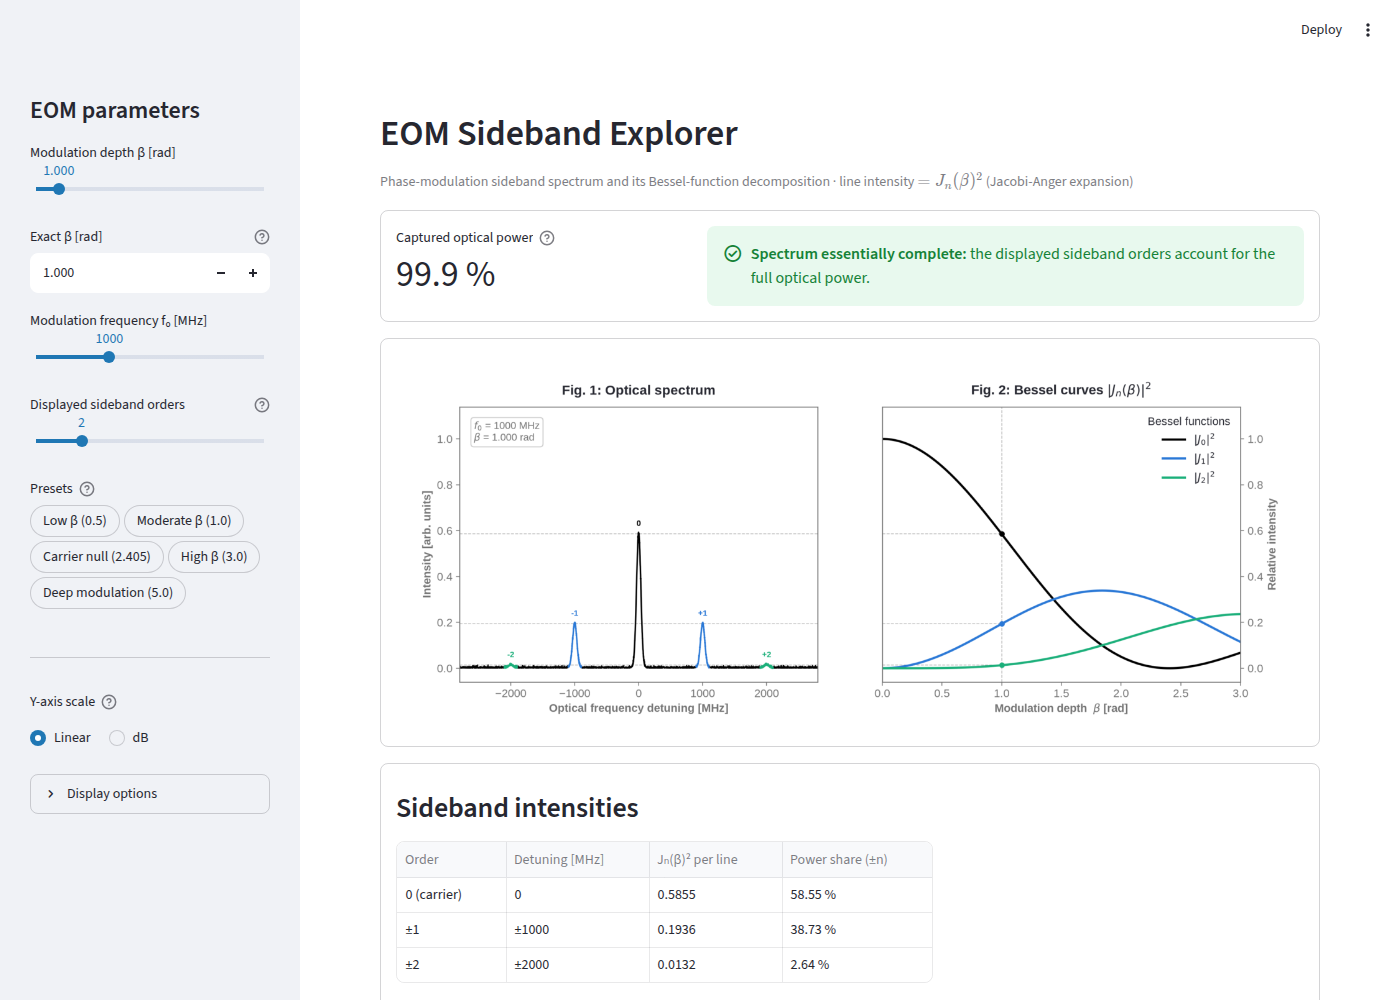
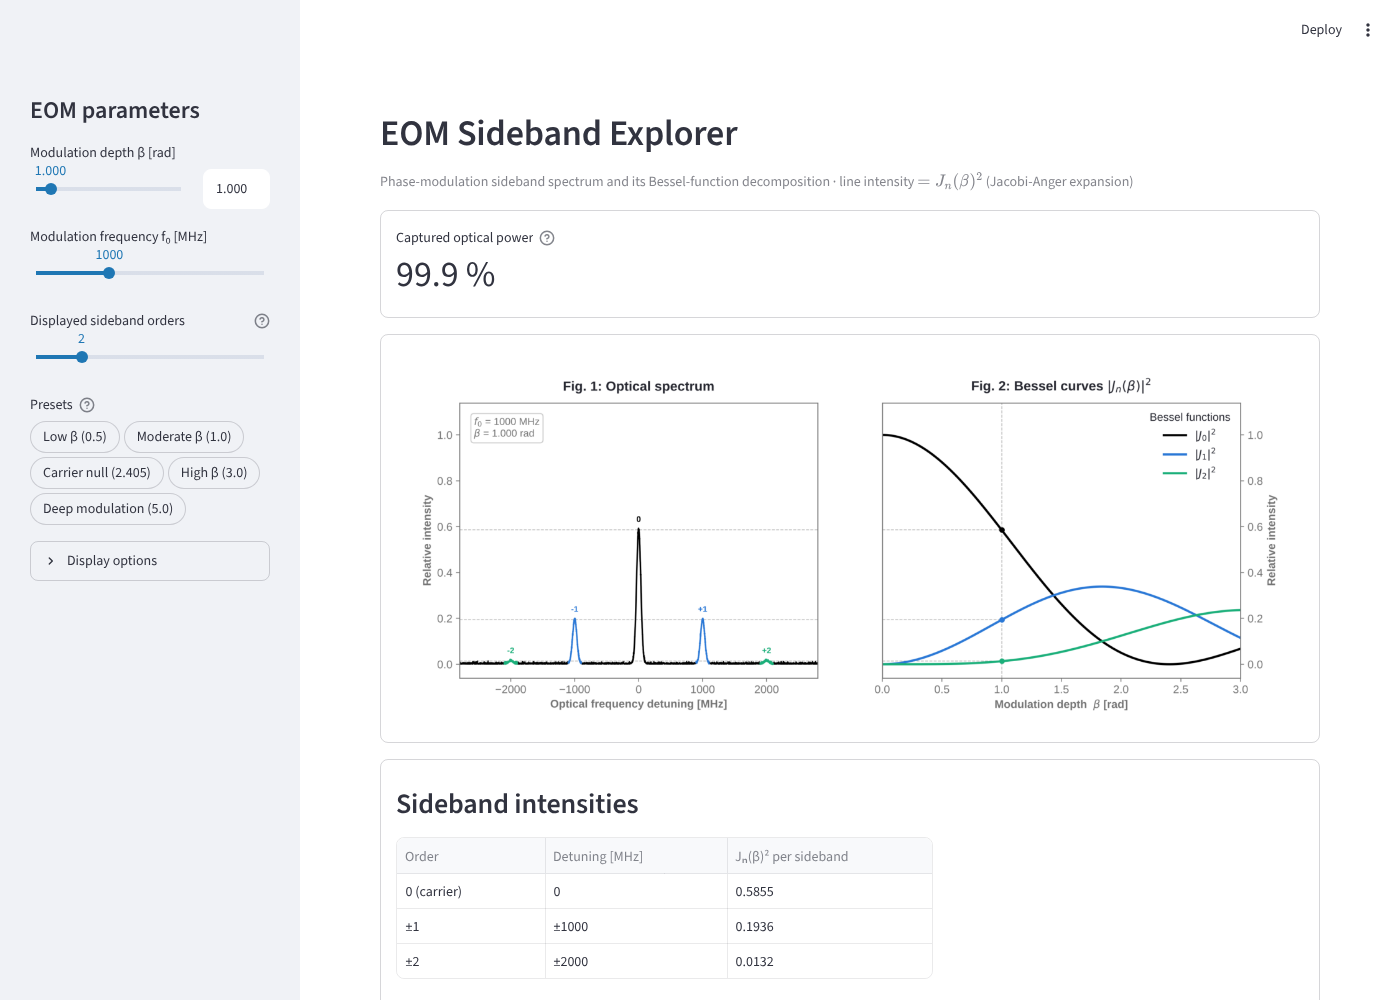
Build the figure without shared matplotlib state, tidy docs
Streamlit serves all visitors from one process, and the figure was built
with pyplot and coloured through the global rcParams, so a light-mode and a
dark-mode visitor rendering at the same moment could swap ink colours. The
figure is now a plain matplotlib Figure with every theme colour passed to the
artists directly; only theme-independent fonts stay in rcParams.

Also: label Fig. 1's y-axis "Relative intensity" (the values are fractions of
the input power, not arbitrary units), refresh the stale README screenshot,
and add a short note on deploying a fork.

Claude-Session: https://claude.ai/code/session_01XGm6FrGu4Ur17hN8RcLhi8

diff --git a/app.py b/app.py
@@ -17,9 +17,10 @@ Run locally with ``streamlit run app.py``.
 
 import io
 
+import matplotlib
 import numpy as np
-import matplotlib.pyplot as plt
 import streamlit as st
+from matplotlib.figure import Figure
 
 from physics import (color_for_n, sideband_intensities, intensity_vs_beta,
                      captured_power, to_decibels, DB_FLOOR)
@@ -105,14 +106,29 @@ def _apply_preset():
 # previous theme until the next interaction (streamlit/streamlit#11920). With
 # its own background the figure then still reads as a light or dark panel,
 # instead of light ink on a light page or dark ink on a dark one.
+#
+# Streamlit serves every visitor from threads of one process, and pyplot and
+# matplotlib's rcParams are global to that process. So the figure is built
+# without pyplot, and every theme colour is passed to the artists directly:
+# concurrent visitors (one in light mode, one in dark) can then never pick up
+# each other's colours. Only settings that are the same for everyone live in
+# rcParams.
 # ---------------------------------------------------------------------------
-def theme_ink(is_dark):
+matplotlib.rcParams.update({
+    "axes.linewidth": 1.0,
+    "font.size": 11,
+    "font.family": "sans-serif",
+    "font.sans-serif": ["Liberation Sans", "Arial", "DejaVu Sans"],
+})
+
+
+def theme_ink(mode):
     """Return the theme-dependent ink colours for the matplotlib figure.
 
     Parameters
     ----------
-    is_dark : bool
-        Whether the active Streamlit theme is dark.
+    mode : {"light", "dark"}
+        The active Streamlit theme.
 
     Returns
     -------
@@ -122,6 +138,7 @@ def theme_ink(is_dark):
         (titles, matches the Streamlit ``textColor``), ``hline`` (dashed helper
         lines), and ``box_fc`` / ``box_ec`` (annotation-box face and edge).
     """
+    is_dark = mode == "dark"
     return {
         "bg":     '#0e1117' if is_dark else '#ffffff',
         "grey":   '0.65' if is_dark else '0.45',
@@ -132,16 +149,13 @@ def theme_ink(is_dark):
     }
 
 
-def apply_plot_style(ink):
-    """Apply shared matplotlib rcParams so both axes match the Streamlit theme."""
-    plt.rcParams.update({
-        "axes.edgecolor": ink["grey"], "axes.labelcolor": ink["grey"],
-        "xtick.color": ink["grey"], "ytick.color": ink["grey"],
-        "text.color": ink["text"],
-        "axes.linewidth": 1.0, "font.size": 11,
-        "font.family": "sans-serif",
-        "font.sans-serif": ["Liberation Sans", "Arial", "DejaVu Sans"],
-    })
+def _color_axes(ax, ink):
+    """Give the frame, ticks and axis labels of ``ax`` the theme's grey ink."""
+    for spine in ax.spines.values():
+        spine.set_edgecolor(ink["grey"])
+    ax.tick_params(colors=ink["grey"])
+    ax.xaxis.label.set_color(ink["grey"])
+    ax.yaxis.label.set_color(ink["grey"])
 
 
 # ---------------------------------------------------------------------------
@@ -233,7 +247,8 @@ def draw_spectrum(ax, *, beta, f0, N, Jn2, width_frac, noise, color_peaks, db_sc
     ax.set_xlim(-span, span)
     ax.set_ylim(*_ylim(db_scale))
     ax.set_xlabel('Optical frequency detuning [MHz]', fontweight='bold')
-    ax.set_ylabel('Intensity [dB]' if db_scale else 'Intensity [arb. units]', fontweight='bold')
+    ax.set_ylabel('Relative intensity [dB]' if db_scale else 'Relative intensity',
+                  fontweight='bold')
     ax.set_title('Fig. 1: Optical spectrum', fontweight='bold', color=ink["text"], pad=12)
     ax.text(0.04, 0.95,
             f"$f_0$ = {f0:.0f} MHz\n"
@@ -289,23 +304,33 @@ def draw_bessel_curves(ax, *, beta, N, Jn2, fixed_xaxis, db_scale, mode, ink):
     ax.yaxis.tick_right()
     ax.set_ylabel('Relative intensity [dB]' if db_scale else 'Relative intensity',
                   fontweight='bold')
-    ax.legend(title='Bessel functions', loc='upper right', frameon=False)
+    legend = ax.legend(title='Bessel functions', loc='upper right', frameon=False,
+                       labelcolor=ink["text"])
+    legend.get_title().set_color(ink["text"])
 
 
 def build_figure(*, beta, f0, N, Jn2, width_frac, noise, color_peaks,
-                 fixed_xaxis, db_scale, mode, ink):
-    """Build and return the two-panel matplotlib figure (spectrum + Bessel curves)."""
-    fig, (ax1, ax2) = plt.subplots(1, 2, figsize=(12.5, 5.2), dpi=150)
+                 fixed_xaxis, db_scale, mode):
+    """Build and return the two-panel matplotlib figure (spectrum + Bessel curves).
+
+    ``mode`` (``"light"`` or ``"dark"``) selects the theme colours; the other
+    arguments are passed on to :func:`draw_spectrum` and
+    :func:`draw_bessel_curves`.
+    """
+    ink = theme_ink(mode)
+    fig = Figure(figsize=(12.5, 5.2))
+    ax1, ax2 = fig.subplots(1, 2)
     fig.subplots_adjust(wspace=0.18, top=0.86, bottom=0.13, left=0.07, right=0.93)
     fig.patch.set_facecolor(ink["bg"])
-    for ax in (ax1, ax2):
-        ax.set_facecolor('none')
 
     draw_spectrum(ax1, beta=beta, f0=f0, N=N, Jn2=Jn2, width_frac=width_frac,
                   noise=noise, color_peaks=color_peaks, db_scale=db_scale,
                   mode=mode, ink=ink)
     draw_bessel_curves(ax2, beta=beta, N=N, Jn2=Jn2, fixed_xaxis=fixed_xaxis,
                        db_scale=db_scale, mode=mode, ink=ink)
+    for ax in (ax1, ax2):
+        ax.set_facecolor('none')
+        _color_axes(ax, ink)
     return fig
 
 
@@ -313,10 +338,9 @@ def figure_png(fig):
     """Render ``fig`` to PNG bytes, uncropped, on its own background.
 
     The canvas is saved exactly as laid out by ``subplots_adjust`` instead of
-    being cropped to its content, at the 200 dpi ``st.pyplot`` used, with the
-    figure's own background colour (see :func:`theme_ink`). Saving it here,
-    rather than passing savefig options to ``st.pyplot`` (now deprecated),
-    keeps that control in our hands.
+    being cropped to its content, at 200 dpi, with the figure's own background
+    colour (see :func:`theme_ink`). Saving it here, rather than passing savefig
+    options to ``st.pyplot`` (now deprecated), keeps that control in our hands.
     """
     buf = io.BytesIO()
     fig.savefig(buf, format="png", dpi=200)
@@ -533,7 +557,6 @@ def main():
 
     # Resolve the active Streamlit theme so the matplotlib figure matches it.
     mode = "dark" if st.context.theme.type == "dark" else "light"
-    ink = theme_ink(mode == "dark")
 
     init_session_state()
     beta, f0, N, width_frac, noise, color_peaks, fixed_xaxis, db_scale = render_sidebar()
@@ -541,10 +564,9 @@ def main():
     # |J_n(beta)|^2 for n = 0..N, shared by both figures and the table.
     Jn2 = sideband_intensities(beta, N)
 
-    apply_plot_style(ink)
     fig = build_figure(beta=beta, f0=f0, N=N, Jn2=Jn2, width_frac=width_frac,
                        noise=noise, color_peaks=color_peaks,
-                       fixed_xaxis=fixed_xaxis, db_scale=db_scale, mode=mode, ink=ink)
+                       fixed_xaxis=fixed_xaxis, db_scale=db_scale, mode=mode)
 
     st.header("EOM Sideband Explorer")
     st.caption("Phase-modulation sideband spectrum and its Bessel-function "
@@ -554,7 +576,6 @@ def main():
 
     with st.container(border=True):
         st.image(figure_png(fig), width="stretch")
-    plt.close(fig)      # release the figure so reruns do not accumulate in memory
 
     render_intensity_table(Jn2, f0, N)
     render_physics_details()

diff --git a/test_app.py b/test_app.py
@@ -9,23 +9,21 @@ it is exercised on both settings.
 The spectral-truncation message is checked here too, since its advice must
 never point at a setting the sidebar cannot reach.
 
-Rendering uses the non-interactive Agg backend, so the suite still needs no
-display or browser.
+The figures are built without pyplot and rendered off-screen, so the suite
+needs no display or browser.
 """
 
-import matplotlib
-matplotlib.use('Agg')
+import io
 
-import matplotlib.pyplot as plt          # noqa: E402
-import numpy as np                       # noqa: E402
-import pytest                            # noqa: E402
+import numpy as np
+import pytest
+from matplotlib.colors import to_rgba
+from matplotlib.text import Text
+from PIL import Image
 
-from app import (NMAX, PRESETS, YLIM, YLIM_DB, apply_plot_style,  # noqa: E402
-                 build_figure, figure_png, theme_ink, truncation_message)
-from matplotlib.colors import to_rgba                 # noqa: E402
-from PIL import Image                                 # noqa: E402
-import io                                             # noqa: E402
-from physics import sideband_intensities  # noqa: E402
+from app import (NMAX, PRESETS, YLIM, YLIM_DB, build_figure, figure_png,
+                 theme_ink, truncation_message)
+from physics import sideband_intensities
 
 # Every preset operating point, on both y-scales.
 CASES = [(beta, N, db) for beta, N in PRESETS.values() for db in (False, True)]
@@ -33,12 +31,10 @@ CASES = [(beta, N, db) for beta, N in PRESETS.values() for db in (False, True)]
 
 def _figure(beta, N, db_scale, mode='light'):
     """Build the two-panel figure for one operating point, y-scale and theme."""
-    ink = theme_ink(mode == 'dark')
-    apply_plot_style(ink)
     return build_figure(beta=beta, f0=1000.0, N=N,
                         Jn2=sideband_intensities(beta, N), width_frac=0.012,
                         noise=0.004, color_peaks=True, fixed_xaxis=False,
-                        db_scale=db_scale, mode=mode, ink=ink)
+                        db_scale=db_scale, mode=mode)
 
 
 def _luminance(color):
@@ -65,7 +61,6 @@ def test_both_panels_share_one_y_range(beta, N, db_scale):
     ax1, ax2 = fig.axes
     assert ax1.get_ylim() == ax2.get_ylim()
     assert ax1.get_ylim() == (YLIM_DB if db_scale else YLIM)
-    plt.close(fig)
 
 
 @pytest.mark.parametrize("beta,N,db_scale", CASES)
@@ -77,7 +72,6 @@ def test_guide_lines_land_on_the_bessel_markers(beta, N, db_scale):
     assert len(heights) == N + 1        # one per displayed order, carrier included
     assert len(markers) == N + 1
     assert heights == pytest.approx(markers)
-    plt.close(fig)
 
 
 @pytest.mark.parametrize("beta,N,db_scale", CASES)
@@ -87,7 +81,6 @@ def test_nothing_drawn_is_infinite(beta, N, db_scale):
     for ax in fig.axes:
         for line in ax.get_lines():
             assert np.all(np.isfinite(np.atleast_1d(line.get_ydata())))
-    plt.close(fig)
 
 
 @pytest.mark.parametrize("N", range(1, NMAX + 1))
@@ -112,10 +105,28 @@ def test_figure_carries_its_own_opaque_background(mode):
     """
     fig = _figure(1.0, 2, False, mode)
     png = Image.open(io.BytesIO(figure_png(fig))).convert("RGBA")
-    plt.close(fig)
     assert png.getextrema()[3] == (255, 255), "the figure has transparent pixels"
 
-    ink = theme_ink(mode == 'dark')
+    ink = theme_ink(mode)
     assert png.getpixel((5, 5))[:3] == tuple(round(255 * c) for c in to_rgba(ink["bg"])[:3])
     for role in ("text", "grey"):
         assert abs(_luminance(ink[role]) - _luminance(ink["bg"])) > 0.35, role
+
+
+def test_dark_figure_sets_every_colour_itself():
+    """No text or frame on a dark figure falls back to matplotlib's black ink.
+
+    Streamlit serves concurrent visitors from one process, so the figure must
+    not take its theme colours from the global rcParams: every artist gets its
+    colour passed in directly, which this checks on the dark theme.
+    """
+    fig = _figure(1.0, 2, False, 'dark')
+    figure_png(fig)                     # draw, so every tick label exists
+    bg = _luminance(theme_ink('dark')["bg"])
+    texts = [t for t in fig.findobj(Text) if t.get_text()]
+    spines = [s for ax in fig.axes for s in ax.spines.values()]
+    assert texts
+    for t in texts:
+        assert _luminance(t.get_color()) - bg > 0.35, t.get_text()
+    for spine in spines:
+        assert _luminance(spine.get_edgecolor()) - bg > 0.35

diff --git a/README.md b/README.md
@@ -57,8 +57,8 @@ browser.
 
 ## Project structure
 
-The code is split into three small files so the physics can be understood,
-reused, and tested independently of the user interface:
+The physics and the user interface live in separate modules, so the physics
+can be understood, reused, and tested independently of the user interface:
 
 | File                    | Responsibility                                                        |
 | ----------------------- | --------------------------------------------------------------------- |
@@ -126,9 +126,14 @@ including the carrier-null *Vπ* measurement and the idealizations of the model.
 ## Using and adapting this project
 
 This project is MIT-licensed (see [`LICENSE`](LICENSE)), so you are free to use,
-modify, and embed it, for example on
-your own website. If you build on it or embed it, an attribution link back to this
-repository is appreciated but not required.
+modify, and embed it, for example on your own website. If you build on it or
+embed it, an attribution link back to this repository is appreciated but not
+required.
+
+To host your own copy, fork the repository and deploy it on
+[Streamlit Community Cloud](https://streamlit.io/cloud) with `app.py` as the
+main file; it installs `requirements.txt` automatically. New physics belongs in
+`physics.py` (with a test in `test_physics.py`), new drawing code in `app.py`.
 
 ## License
 
